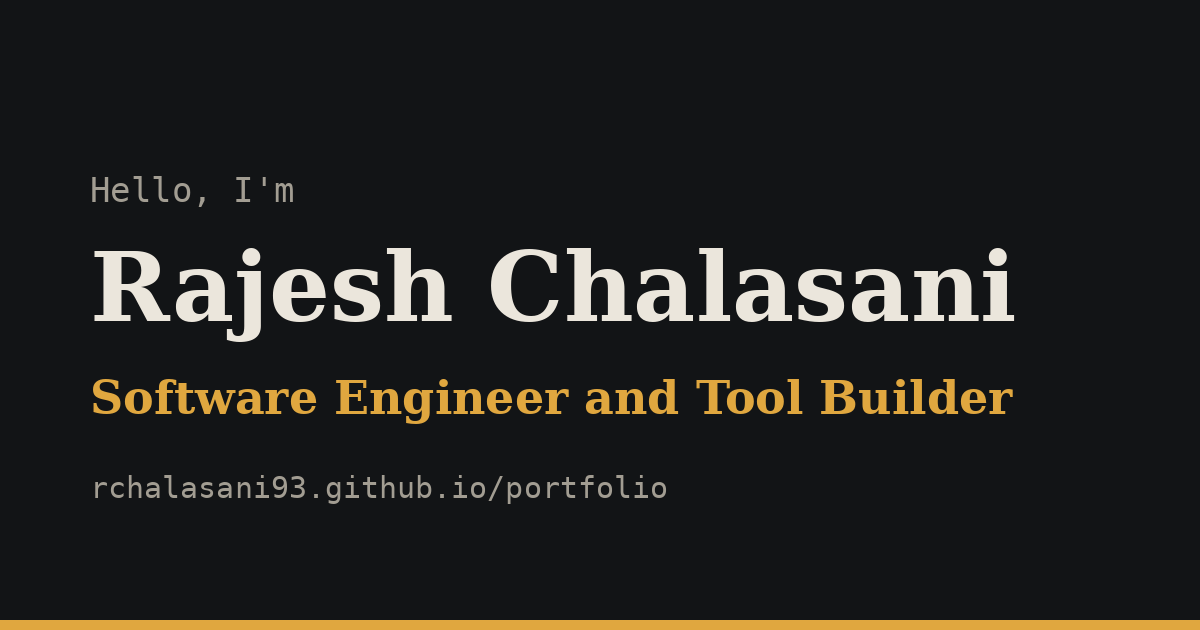
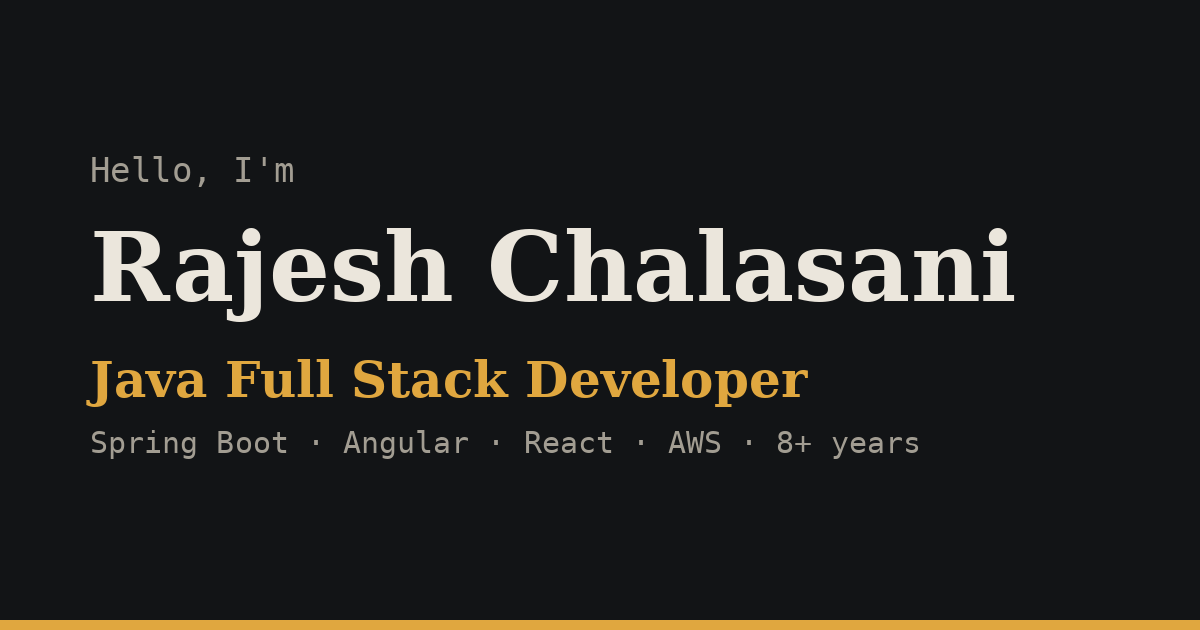
Add work experience, education and full skills from resume

diff --git a/index.html b/index.html
@@ -5,14 +5,14 @@
   <meta name="viewport" content="width=device-width, initial-scale=1">
   <meta http-equiv="Content-Security-Policy" content="default-src 'self'; script-src 'self'; style-src 'self'; img-src 'self' data:; font-src 'self'; connect-src 'none'; object-src 'none'; base-uri 'self'; form-action 'none'">
   <meta name="referrer" content="strict-origin-when-cross-origin">
-  <title>Rajesh Chalasani – Software Engineer and Tool Builder</title>
-  <meta name="description" content="Rajesh Chalasani builds web tools, browser extensions and game modding utilities. See projects like All Media Downloader and the Elite Redux Save Editor.">
+  <title>Rajesh Chalasani – Java Full Stack Developer</title>
+  <meta name="description" content="Rajesh Chalasani is a Java full stack developer with 8+ years building Spring Boot microservices, Angular and React front ends, and AWS deployments.">
   <link rel="canonical" href="https://rchalasani93.github.io/portfolio/">
   <meta name="theme-color" content="#121416">
 
-  <meta property="og:type" content="website">
-  <meta property="og:title" content="Rajesh Chalasani – Software Engineer and Tool Builder">
-  <meta property="og:description" content="Web tools, browser extensions and game modding utilities by Rajesh Chalasani.">
+  <meta property="og:type" content="profile">
+  <meta property="og:title" content="Rajesh Chalasani – Java Full Stack Developer">
+  <meta property="og:description" content="8+ years building Spring Boot microservices, Angular and React front ends, and AWS deployments.">
   <meta property="og:url" content="https://rchalasani93.github.io/portfolio/">
   <meta property="og:image" content="https://rchalasani93.github.io/portfolio/og-image.png">
   <meta property="og:image:width" content="1200">
@@ -28,9 +28,15 @@
     "@context": "https://schema.org",
     "@type": "Person",
     "name": "Rajesh Chalasani",
-    "jobTitle": "Software Engineer",
+    "jobTitle": "Java Full Stack Developer",
     "url": "https://rchalasani93.github.io/portfolio/",
-    "sameAs": ["https://github.com/rchalasani93"]
+    "sameAs": ["https://github.com/rchalasani93"],
+    "worksFor": { "@type": "Organization", "name": "CGI" },
+    "alumniOf": [
+      { "@type": "CollegeOrUniversity", "name": "New England College" },
+      { "@type": "CollegeOrUniversity", "name": "JNTUK" }
+    ],
+    "knowsAbout": ["Java", "Spring Boot", "Microservices", "Angular", "React", "AWS", "Terraform", "SQL"]
   }
   </script>
 </head>
@@ -45,7 +51,7 @@
     <nav class="navbar" id="nav" aria-label="Main">
       <a href="#home" class="active">Home</a>
       <a href="#about">About</a>
-      <a href="#services">Services</a>
+      <a href="#experience">Experience</a>
       <a href="#skills">Skills</a>
       <a href="#projects">Projects</a>
       <a href="#contact">Contact</a>
@@ -57,10 +63,10 @@
       <div class="home-content">
         <p class="eyebrow">Hello, I'm</p>
         <h1>Rajesh Chalasani</h1>
-        <p class="role">I work as a <span class="typed" data-words="Software Engineer|Tool Builder|Game Modder|Fantasy Writer">Software Engineer</span></p>
-        <p class="lead">I build small, useful software: web apps, Chrome extensions and utilities for the games I play. Outside of code I write fantasy fiction and design game systems.</p>
+        <p class="role">I work as a <span class="typed" data-words="Java Full Stack Developer|Spring Boot Engineer|Angular Developer|Tool Builder">Java Full Stack Developer</span></p>
+        <p class="lead">8+ years building enterprise web applications with Java, Spring Boot, Angular and AWS, at companies like Fidelity Investments and CGI. On my own time I build web tools, Chrome extensions and game utilities.</p>
         <div class="home-actions">
-          <a href="#projects" class="btn">See my projects</a>
+          <a href="#experience" class="btn">See my experience</a>
           <a href="https://github.com/rchalasani93" class="btn btn-ghost" rel="noopener noreferrer" target="_blank">
             <svg viewBox="0 0 16 16" width="18" height="18" aria-hidden="true"><path fill="currentColor" d="M8 0C3.58 0 0 3.58 0 8c0 3.54 2.29 6.53 5.47 7.59.4.07.55-.17.55-.38 0-.19-.01-.82-.01-1.49-2.01.37-2.53-.49-2.69-.94-.09-.23-.48-.94-.82-1.13-.28-.15-.68-.52-.01-.53.63-.01 1.08.58 1.23.82.72 1.21 1.87.87 2.33.66.07-.52.28-.87.51-1.07-1.78-.2-3.64-.89-3.64-3.95 0-.87.31-1.59.82-2.15-.08-.2-.36-1.02.08-2.12 0 0 .67-.21 2.2.82.64-.18 1.32-.27 2-.27.68 0 1.36.09 2 .27 1.53-1.04 2.2-.82 2.2-.82.44 1.1.16 1.92.08 2.12.51.56.82 1.27.82 2.15 0 3.07-1.87 3.75-3.65 3.95.29.25.54.73.54 1.48 0 1.07-.01 1.93-.01 2.2 0 .21.15.46.55.38A8.013 8.013 0 0016 8c0-4.42-3.58-8-8-8z"/></svg>
             GitHub
@@ -74,67 +80,122 @@
       <div class="about-grid">
         <div class="monogram" aria-hidden="true">RC</div>
         <div>
-          <h3>Software engineer with a builder's habit</h3>
-          <p>Coding is my day job, and most evenings it's also my hobby. I like taking an annoying manual task and turning it into a tool: a site that pulls every photo from a social profile, a save editor for a Pokémon ROM hack, a build setup that compiles a game from source.</p>
-          <p>I care about tools that work for real people, so I ship them where they're easiest to use. That usually means a hosted website, sometimes a browser extension, occasionally both.</p>
-          <p>When I'm not coding, I'm writing a fantasy action-adventure novel and sketching designs for a myth-themed roguelite RPG.</p>
+          <h3>Full stack developer, start to finish</h3>
+          <p>I've spent over eight years on every part of the software lifecycle: gathering requirements, designing services and databases, building the UI, writing the tests, and getting it all through CI/CD into production. Most of that work is Java and Spring Boot on the back end, Angular or React on the front end, and AWS underneath.</p>
+          <p>I like the parts of the job that make systems cheaper and calmer to run. At Fidelity I moved a legacy Java application to the cloud and cut its hosting costs in half, and I've tuned enough slow queries and bloated bundles to enjoy it. I also mentor junior developers and do a lot of code review.</p>
+          <p>Outside work I build small tools of my own, write fantasy fiction, and sketch designs for a myth-themed roguelite RPG.</p>
         </div>
       </div>
     </section>
 
     <section class="section" id="services">
-      <h2 class="section-title">What I <span>build</span></h2>
+      <h2 class="section-title">What I <span>do</span></h2>
       <dl class="services">
         <div>
-          <dt>Web apps</dt>
-          <dd>Frontend and backend, deployed on managed hosts like Render, with a separate dev environment for testing changes before they go live.</dd>
+          <dt>Microservices and APIs</dt>
+          <dd>Spring Boot and Quarkus services, REST APIs secured with OAuth2 and JWT, documented in Swagger. Node.js and Python (Flask, FastAPI, Django) where they fit better.</dd>
         </div>
         <div>
-          <dt>Browser extensions</dt>
-          <dd>Chrome extensions that work alongside a site, for the jobs a server can't do on its own.</dd>
+          <dt>Front ends</dt>
+          <dd>Single-page apps in Angular and React with TypeScript and RxJS, plus the unglamorous work: lazy loading, smaller bundles, cross-browser fixes.</dd>
         </div>
         <div>
-          <dt>Game tools and mods</dt>
-          <dd>Save editors and ROM hack builds for Pokémon games, working from the decompiled source.</dd>
+          <dt>Cloud and delivery</dt>
+          <dd>AWS (EC2, S3, RDS, Lambda, ECS/EKS), Terraform for infrastructure, Docker, and Jenkins or GitHub Actions pipelines across dev, QA and prod.</dd>
         </div>
         <div>
-          <dt>Automation</dt>
-          <dd>Scripts and pipelines that take repetitive work, like content production, off my plate.</dd>
+          <dt>Databases and testing</dt>
+          <dd>Schema design, indexing and query tuning on Oracle, DB2, PostgreSQL and MySQL. Test suites in JUnit, Mockito, Jest and Selenium wired into CI.</dd>
         </div>
       </dl>
+    </section>
+
+    <section class="section" id="experience">
+      <h2 class="section-title">Work <span>experience</span></h2>
+      <ol class="timeline">
+        <li>
+          <p class="when">May 2024 – Present</p>
+          <div>
+            <h3>Java Full Stack Developer <span class="at">CGI</span></h3>
+            <p>Microservices in Spring Boot and Quarkus for high-traffic enterprise apps, Angular front ends, and AWS infrastructure in Terraform. Containerized services with Docker on ECS/EKS, built CI/CD in Jenkins and GitHub Actions, and brought test coverage above 85%. Mentor junior developers and lead features from requirements to production.</p>
+          </div>
+        </li>
+        <li>
+          <p class="when">Dec 2023 – May 2024</p>
+          <div>
+            <h3>Sr. Full Stack Java Developer <span class="at">Cloudorama LLC, Virginia</span></h3>
+            <p>Java and Django back ends, WebSphere deployments across QA, staging and production, and Splunk dashboards for application health. Redesigned indexing strategies that sped up key queries by up to 40%.</p>
+          </div>
+        </li>
+        <li>
+          <p class="when">May 2022 – Nov 2023</p>
+          <div>
+            <h3>Principal Software Developer <span class="at">Fidelity Investments, Raleigh-Durham, NC</span></h3>
+            <p>Led and mentored engineers building high-traffic web applications with Java microservices and Angular 15. Migrated a legacy Java application to the cloud, cutting hosting costs by 50%. Owned CI/CD with Jenkins, Gradle, Artifactory and UrbanCode.</p>
+          </div>
+        </li>
+        <li>
+          <p class="when">Nov 2019 – May 2022</p>
+          <div>
+            <h3>Sr. Front End Angular Developer <span class="at">IT Keysource, Charlotte, NC</span></h3>
+            <p>Built and maintained Angular applications, including an upgrade from Angular 8 to 11. Improved response times with AJAX, managed Webpack builds, and wrote Python parsers for design data.</p>
+          </div>
+        </li>
+        <li>
+          <p class="when">Sep 2018 – Nov 2019</p>
+          <div>
+            <h3>Sr. Java Developer <span class="at">People Tech Group, Warren, MI</span></h3>
+            <p>Spring MVC and REST services with Oracle, DB2 and Kafka, and UIs in React, Angular 2/4, TypeScript and Redux.</p>
+          </div>
+        </li>
+        <li>
+          <p class="when">Jun 2018 – Aug 2018</p>
+          <div>
+            <h3>Java Developer <span class="at">OUBT, Seattle</span></h3>
+            <p>J2EE and Spring MVC services with Hibernate, JMS and SOAP/REST web services.</p>
+          </div>
+        </li>
+      </ol>
+
+      <h3 class="sub-title">Education</h3>
+      <ul class="edu">
+        <li><strong>Master's in Computer and Information Science</strong>, New England College</li>
+        <li><strong>Bachelor's in Electronics and Communication Engineering</strong>, JNTUK</li>
+      </ul>
     </section>
 
     <section class="section" id="skills">
       <h2 class="section-title">My <span>skills</span></h2>
       <div class="skills-grid">
         <div>
-          <h3>Technical</h3>
+          <h3>Back end</h3>
           <ul class="tags">
-            <li>JavaScript</li>
-            <li>HTML and CSS</li>
-            <li>React</li>
-            <li>Python</li>
-            <li>C (decomp projects)</li>
-            <li>Chrome Extensions API</li>
-            <li>Git and GitHub</li>
-            <li>Linux and WSL</li>
+            <li>Java 8+</li><li>J2EE</li><li>Spring Boot</li><li>Spring MVC</li><li>Spring Security</li><li>Hibernate</li><li>Quarkus</li><li>Microservices</li><li>REST and SOAP</li><li>Kafka</li><li>Node.js</li><li>Python</li>
           </ul>
         </div>
         <div>
-          <h3>Professional</h3>
+          <h3>Front end</h3>
           <ul class="tags">
-            <li>Shipping side projects end to end</li>
-            <li>Deployment and environments</li>
-            <li>Working with third-party APIs</li>
-            <li>Game and systems design</li>
-            <li>Long-form writing</li>
+            <li>Angular (2 to 15)</li><li>React</li><li>TypeScript</li><li>RxJS</li><li>JavaScript ES6</li><li>HTML5 and CSS3</li><li>Bootstrap</li>
+          </ul>
+        </div>
+        <div>
+          <h3>Cloud and DevOps</h3>
+          <ul class="tags">
+            <li>AWS</li><li>Azure</li><li>Terraform</li><li>Docker</li><li>Kubernetes</li><li>Jenkins</li><li>GitHub Actions</li><li>Maven and Gradle</li><li>Splunk</li><li>WebSphere</li><li>Tomcat</li><li>JBoss</li>
+          </ul>
+        </div>
+        <div>
+          <h3>Data and testing</h3>
+          <ul class="tags">
+            <li>Oracle</li><li>DB2</li><li>PostgreSQL</li><li>MySQL</li><li>SQL Server</li><li>JUnit</li><li>Mockito</li><li>Jest</li><li>Jasmine and Karma</li><li>Selenium</li><li>Postman</li><li>SonarQube</li>
           </ul>
         </div>
       </div>
     </section>
 
     <section class="section" id="projects">
-      <h2 class="section-title">Latest <span>projects</span></h2>
+      <h2 class="section-title">Side <span>projects</span></h2>
       <ol class="projects">
         <li>
           <article>
@@ -167,7 +228,7 @@
       <h2 class="section-title">Contact <span>me</span></h2>
       <div class="contact">
         <h3>Let's work together</h3>
-        <p>Have a tool you wish existed, or a question about one of my projects? The quickest way to reach me is on GitHub. Open an issue on any of my repos or follow along with what I'm building.</p>
+        <p>Looking for a full stack developer, or have a question about one of my projects? The quickest way to reach me is on GitHub.</p>
         <a href="https://github.com/rchalasani93" class="btn" rel="noopener noreferrer" target="_blank">github.com/rchalasani93</a>
       </div>
     </section>

diff --git a/styles.css b/styles.css
@@ -162,6 +162,22 @@ h1, h2, h3 { font-family: var(--serif); font-weight: 700; line-height: 1.15; }
 .services dt { font-family: var(--serif); font-size: 22px; font-weight: 700; margin-bottom: 6px; }
 .services dd { color: var(--muted); }
 
+/* Experience */
+.timeline { list-style: none; max-width: 980px; }
+.timeline li {
+  display: grid; grid-template-columns: 190px 1fr; gap: 24px;
+  padding: 28px 0; border-top: 1px solid var(--line);
+}
+.timeline li:last-child { border-bottom: 1px solid var(--line); }
+.when { font-family: var(--mono); font-size: 14px; color: var(--accent); padding-top: 5px; }
+.timeline h3 { margin-bottom: 8px; }
+.timeline .at { display: block; font-family: var(--sans); font-size: 16px; font-weight: 500; color: var(--muted); margin-top: 4px; }
+.timeline p:not(.when) { color: var(--muted); max-width: 66ch; }
+.sub-title { margin-top: 56px; }
+.edu { list-style: none; max-width: 980px; }
+.edu li { padding: 14px 0; border-bottom: 1px solid var(--line); color: var(--muted); }
+.edu strong { color: var(--ink); font-weight: 600; }
+
 /* Skills */
 .skills-grid { display: grid; grid-template-columns: 1fr 1fr; gap: 56px; max-width: 980px; }
 .tags { list-style: none; display: flex; flex-wrap: wrap; gap: 10px; }
@@ -231,7 +247,7 @@ h1, h2, h3 { font-family: var(--serif); font-weight: 700; line-height: 1.15; }
 @media (max-width: 520px) {
   body { font-size: 16px; }
   .section { padding: 72px var(--pad-x); }
-  .projects li { grid-template-columns: 1fr; gap: 6px; }
+  .projects li, .timeline li { grid-template-columns: 1fr; gap: 6px; }
 }
 
 /* Keyframes from the original template */
